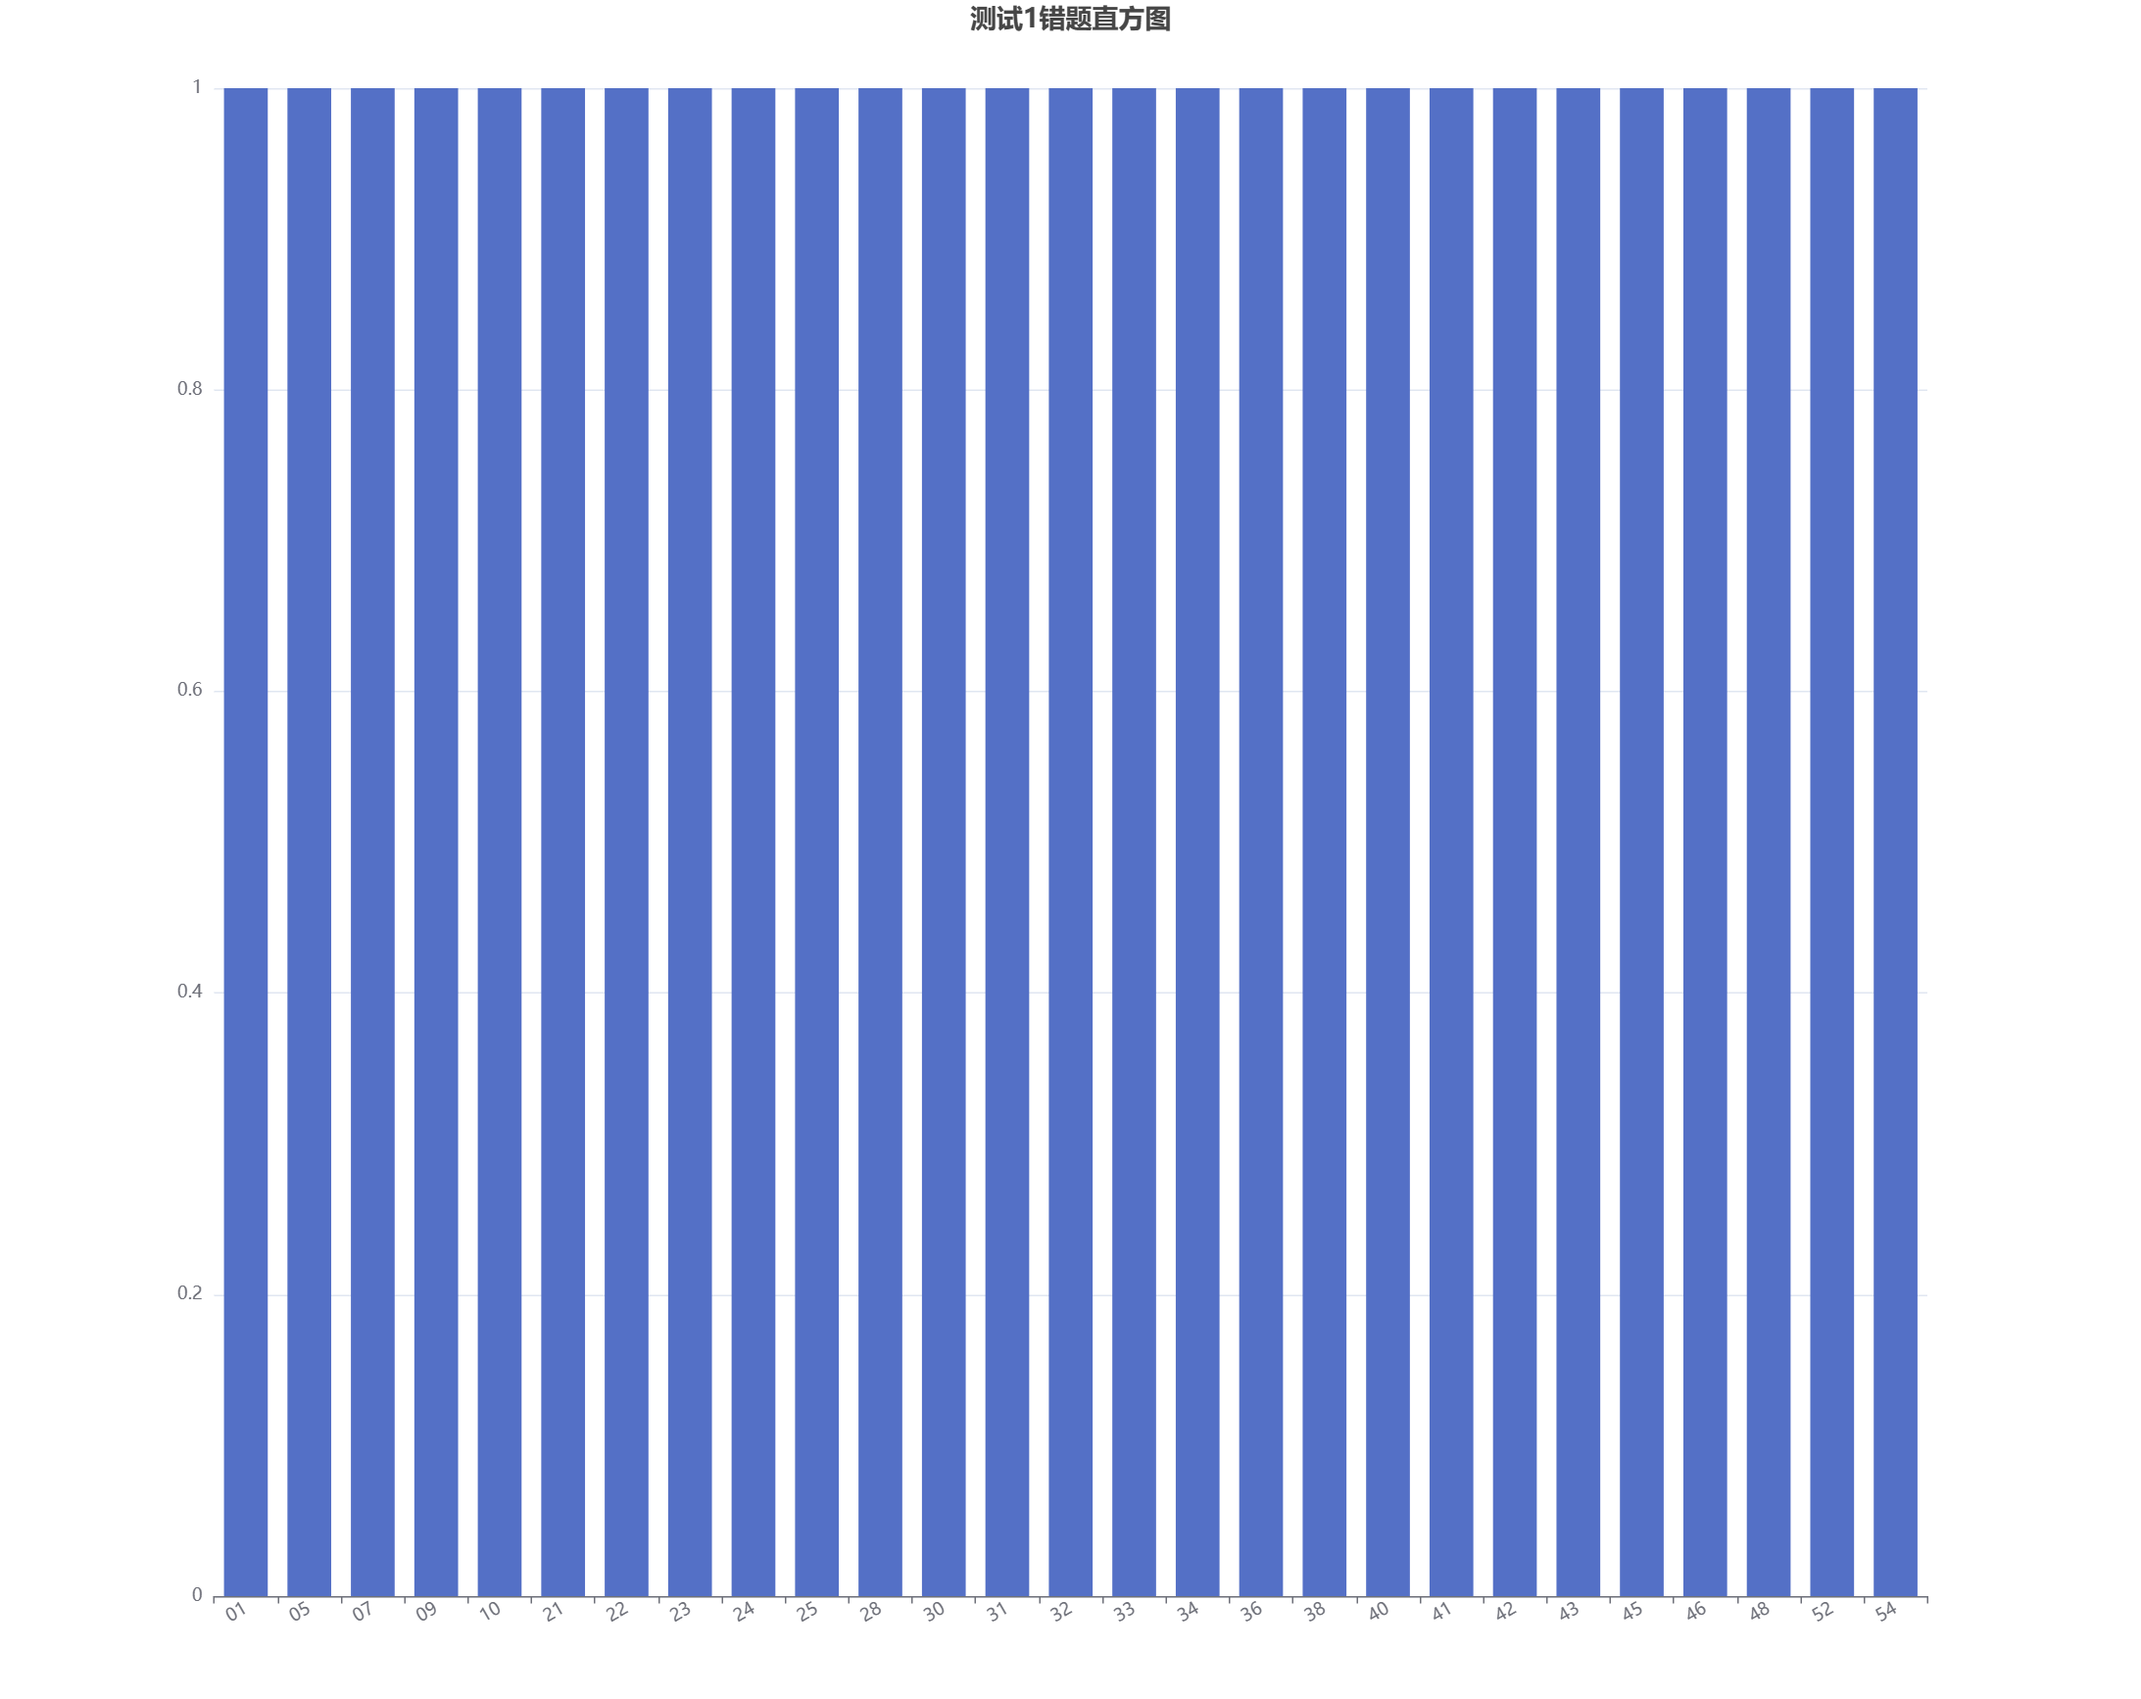
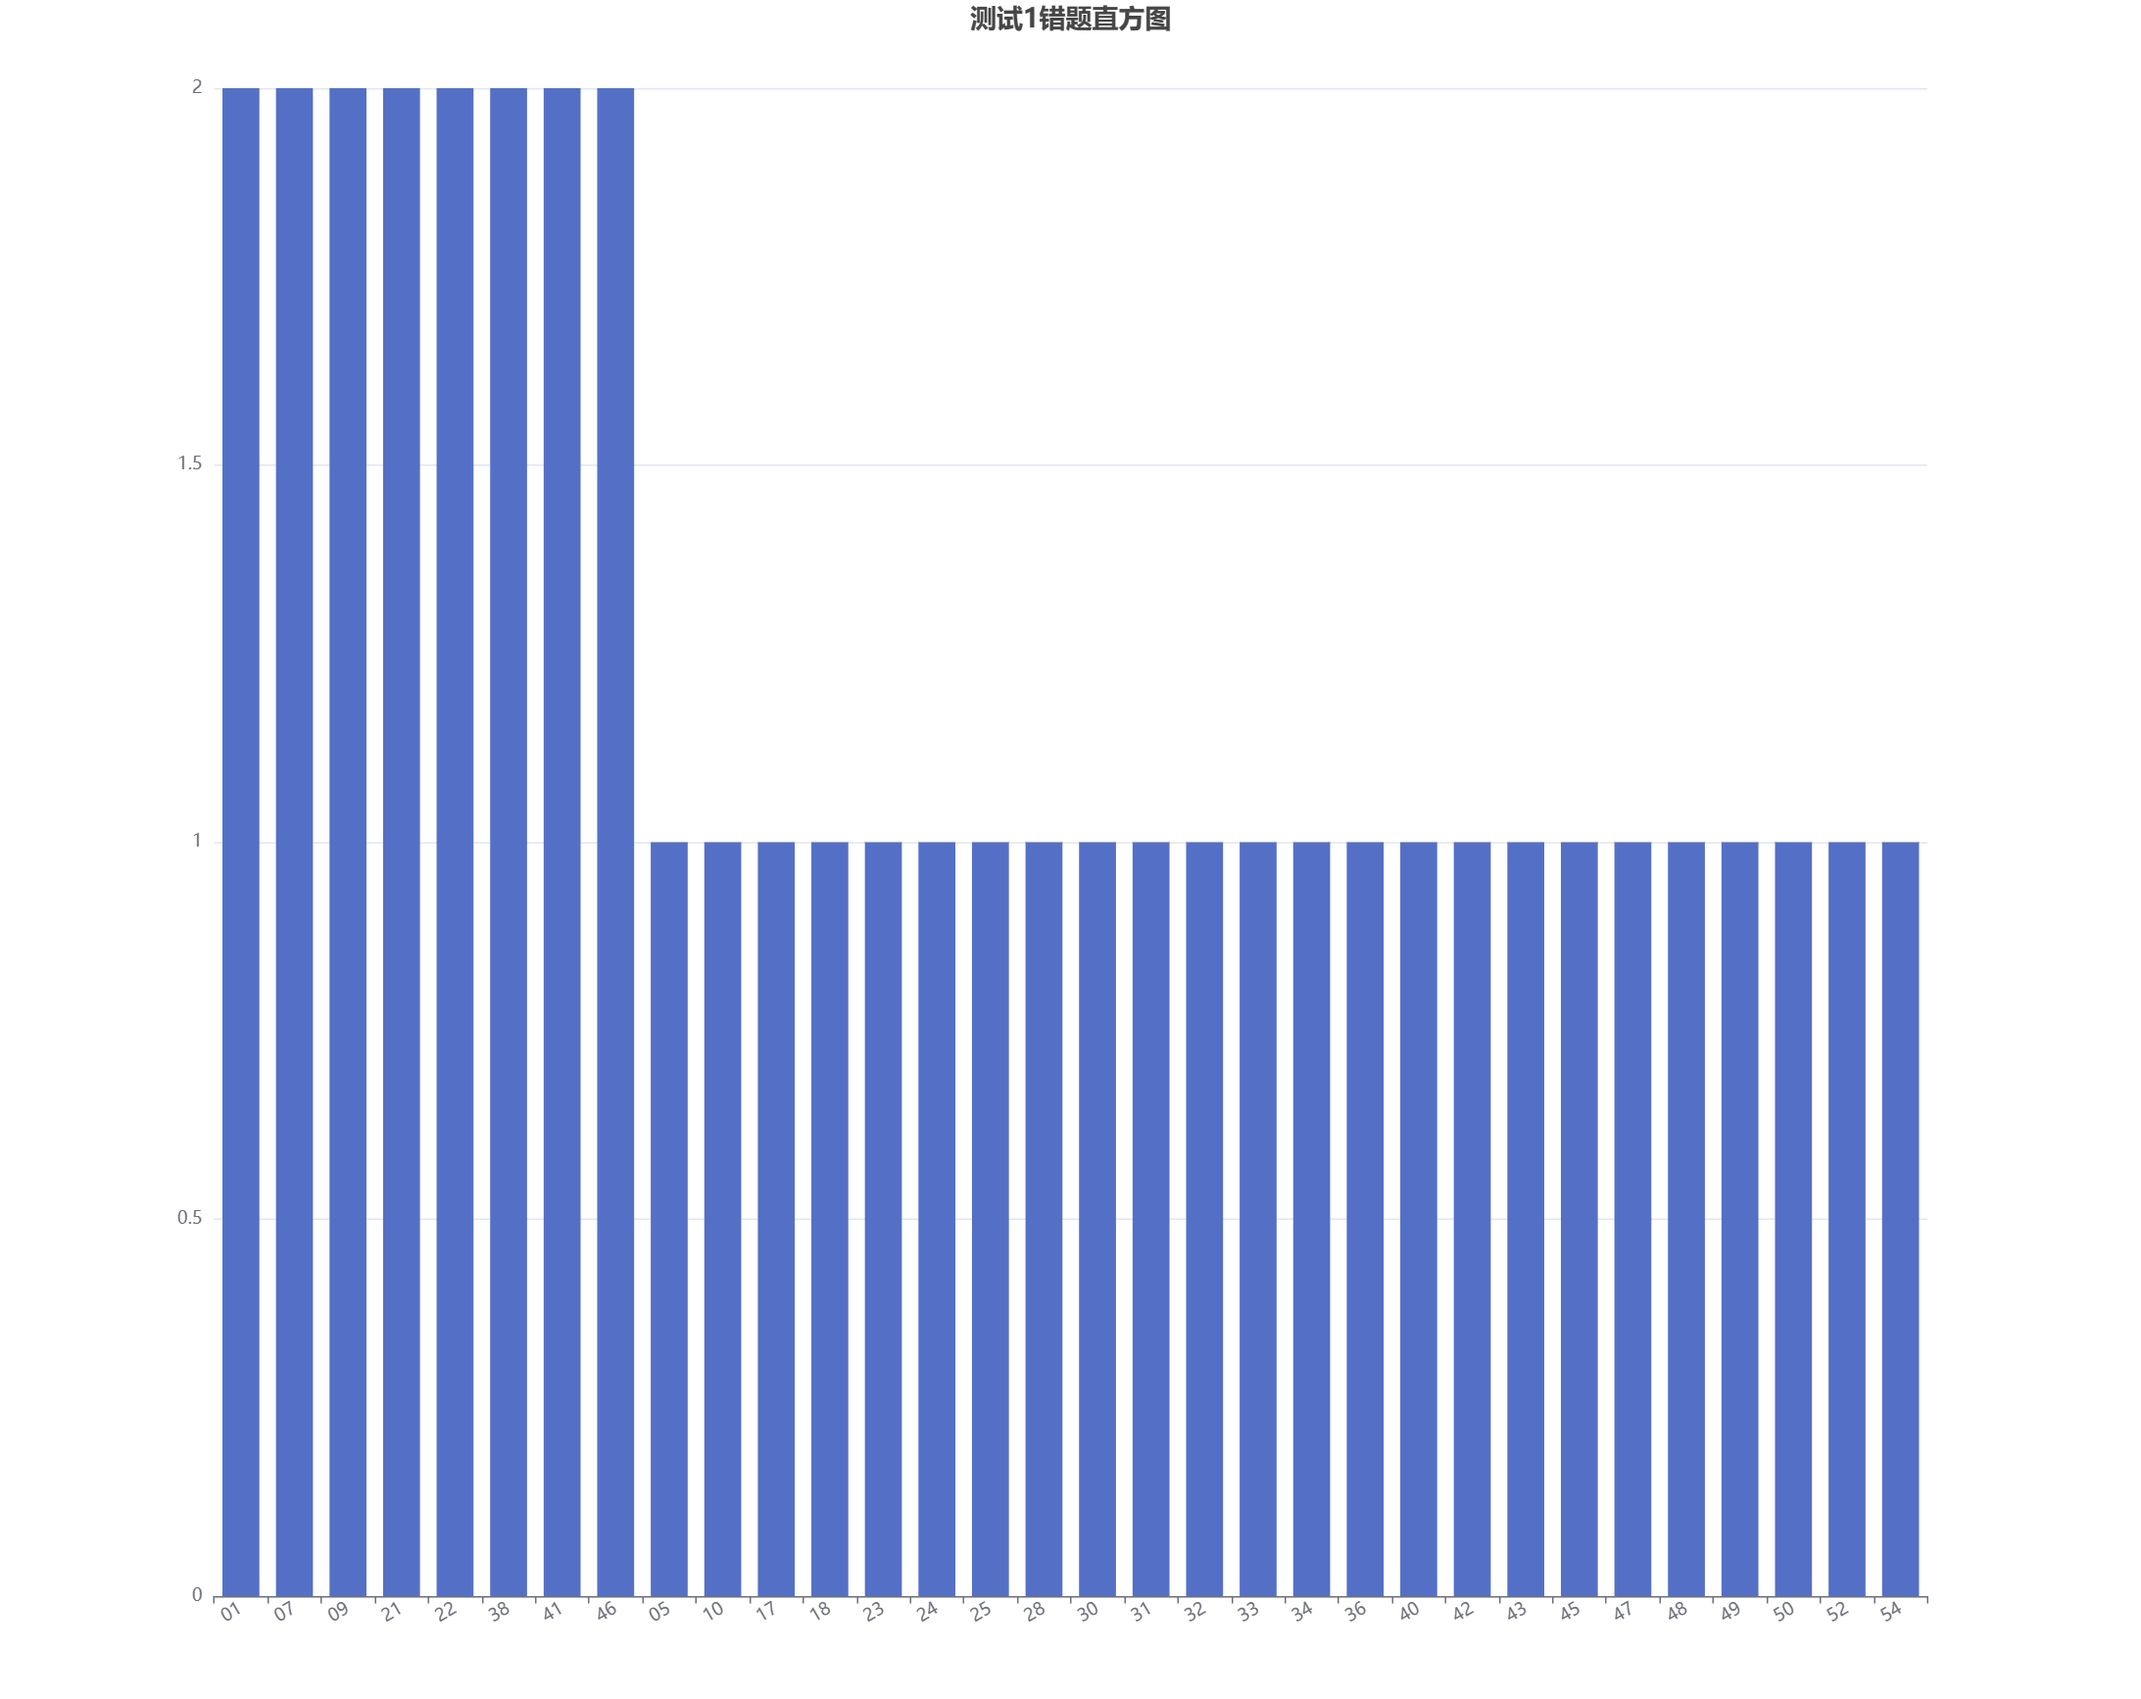
update new result

diff --git a/src/rate.js b/src/rate.js
@@ -48,7 +48,7 @@ option = {
   },
   xAxis: {
     type: 'category',
-    data: ['第一回', '第二回', '第三回', '第四回', '第五回'],
+    data: ['第一回', '第二回'],
   },
   yAxis: {
     type: 'value',
@@ -59,47 +59,7 @@ option = {
   },
   series: [
     {
-      data: [76.3, 85.5, 89.5, 93.4, 100],
-      type: 'line',
-      markLine: {
-        symbol: ['none', 'none'],
-        label: { show: true },
-        data: [{ yAxis: 75 }],
-      },
-      markPoint: {
-        data: [
-          { type: 'max', name: '最大值' },
-          { type: 'min', name: '最小值' },
-        ],
-      },
-    },
-  ],
-};
-
-//
-
-option = {
-  title: {
-    left: 'center',
-    text: '测试3正确率推移',
-  },
-  tooltip: {
-    trigger: 'axis',
-  },
-  xAxis: {
-    type: 'category',
-    data: ['第一回', '第二回', '第三回', '第四回', '第五回'],
-  },
-  yAxis: {
-    type: 'value',
-    scale: true,
-    axisLabel: {
-      formatter: '{value}%',
-    },
-  },
-  series: [
-    {
-      data: [69.7, 90.8, 94.7, 93.4, 98.7],
+      data: [50, 75.9],
       type: 'line',
       markLine: {
         symbol: ['none', 'none'],

diff --git a/src/result.js b/src/result.js
@@ -65,13 +65,15 @@ option = {
     {
       dimensions: ['number', 'frequent'],
       source: [
-        ['01', 1],
+        ['01', 2],
         ['05', 1],
-        ['07', 1],
-        ['09', 1],
+        ['07', 2],
+        ['09', 2],
         ['10', 1],
-        ['21', 1],
-        ['22', 1],
+        ['17', 1],
+        ['18', 1],
+        ['21', 2],
+        ['22', 2],
         ['23', 1],
         ['24', 1],
         ['25', 1],
@@ -82,14 +84,17 @@ option = {
         ['33', 1],
         ['34', 1],
         ['36', 1],
-        ['38', 1],
+        ['38', 2],
         ['40', 1],
-        ['41', 1],
+        ['41', 2],
         ['42', 1],
         ['43', 1],
         ['45', 1],
-        ['46', 1],
+        ['46', 2],
+        ['47', 1],
         ['48', 1],
+        ['49', 1],
+        ['50', 1],
         ['52', 1],
         ['54', 1],
       ],
